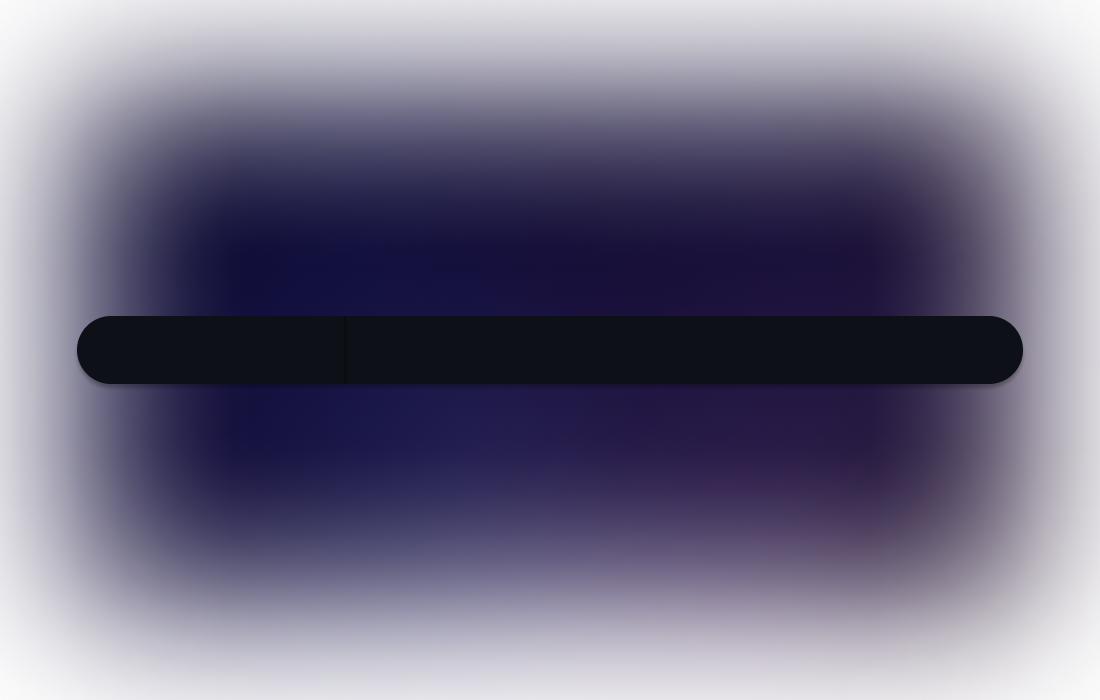
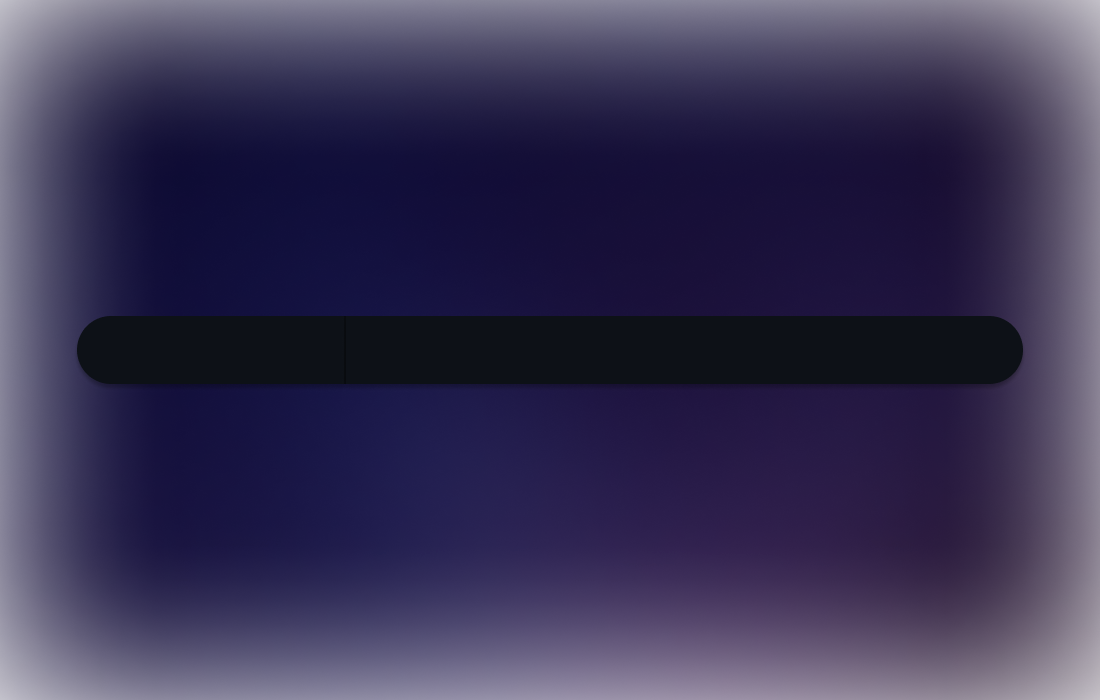
Feature complete Search ui

diff --git a/src/gui/main.py b/src/gui/main.py
@@ -4,6 +4,7 @@ from src.Logger import Logger
 from screeninfo import get_monitors
 from src.gui.lib.RelationalUI import RelationalNodeUI
 from src.Core import Core
+import time
 
 class GUI():
 	def __init__(self,DEBUG=False) -> None:
@@ -15,10 +16,9 @@ class GUI():
 		dpg.setup_dearpygui()
 		self.initStyles()
 		self.loadTextures()
-		self.mainWindow = dpg.add_window(label="Heimdall",on_close=self.closeGUI,horizontal_scrollbar=False,no_title_bar=True,no_scrollbar=True,no_collapse=True,no_close=False,no_resize=True,menubar=False,no_move=True,height=dpg.get_viewport_height(),width=dpg.get_viewport_width())
+		self.mainWindow = dpg.add_window(label="Heimdall",on_close=self.closeGUI,horizontal_scrollbar=False,no_title_bar=True,no_scrollbar=True,no_collapse=True,no_close=False,no_resize=True,menubar=False,no_move=True)
 		dpg.set_primary_window(self.mainWindow,True)
-		# dpg.set_frame_callback(1,callback=lambda: self.switchState("MAIN"))
-		dpg.set_frame_callback(1,callback=lambda: self.switchState("VIEW"))
+		dpg.set_frame_callback(1,callback=lambda: self.switchState("MAIN"))
 		self.centerViewport()
 		dpg.show_viewport()
 		dpg.start_dearpygui()
@@ -102,7 +102,7 @@ class GUI():
 				# Structure
 				dpg.add_image(texture_tag=self.textures["bar"],parent=self.mainWindow,pos=[0,0])
 				exit_button = dpg.add_image_button(label="button-exit",texture_tag=self.textures["button-exit"],parent=self.mainWindow,pos=[1060,5],callback=self.closeGUI)
-				dpg.add_image(texture_tag=self.textures["main-background"],parent=self.mainWindow,pos=[0,-100])
+				dpg.add_image(texture_tag=self.textures["main-background"],parent=self.mainWindow,pos=[0,0])
 				dpg.add_image(texture_tag=self.textures["title"],parent=self.mainWindow,pos=[251,198])
 				dpg.add_image_button(label="button-new",texture_tag=self.textures["button-new"],parent=self.mainWindow,pos=[255,342],callback=lambda: self.switchState("SEARCH"))
 				dpg.add_image_button(label="button-load",texture_tag=self.textures["button-load"],parent=self.mainWindow,pos=[510,342]) #,callback=lambda: self.switchState("LOAD")
@@ -120,6 +120,8 @@ class GUI():
 					value = dpg.get_value(search_input)
 					self.switchState("LOADING")
 					self.logger.debugMsg(f"Starting search with dp:{datapoint},value:{value}")
+					if self.DEBUG:
+						self.startedSerchTime = time.time()
 					if results := self.core.search(datapoint,value):
 						self.result = results
 						self.logger.debugMsg(f"Got search results: {self.result}")
@@ -146,18 +148,25 @@ class GUI():
 				# TODO | needs more work with an actual loader or whatever. maybe a debug console idfk
 				dpg.add_image(texture_tag=self.textures["main-background"],parent=self.mainWindow,pos=[0,-100])
 			case "VIEW":
+				def backToSearch():
+					self.RNUI.stopInteractionThreads()
+					self.switchState("SEARCH")
 				# Structure
 				dpg.add_image(texture_tag=self.textures["bar"],parent=self.mainWindow,pos=[0,0])
 				dpg.add_image(texture_tag=self.textures["small-title"],parent=self.mainWindow,pos=[468,4])
 				exit_button = dpg.add_image_button(label="button-exit",texture_tag=self.textures["button-exit"],parent=self.mainWindow,pos=[1060,5],callback=self.closeGUI)
-				dpg.add_image(texture_tag=self.textures["main-background"],parent=self.mainWindow,pos=[0,-100])
+				dpg.add_image(texture_tag=self.textures["main-background"],parent=self.mainWindow,pos=[0,0])
 				dpg.add_image(texture_tag=self.textures["view-background"],parent=self.mainWindow,pos=[79,111])
 				dpg.add_image(texture_tag=self.textures["view-filename-background"],parent=self.mainWindow,pos=[408,52])
 				file_name = dpg.add_input_text(parent=self.mainWindow,pos=[425,53],width=260,multiline=False,hint="Unsaved File",no_spaces=True) # ,callback=searchCallback,on_enter=True
 				self.RNUI = RelationalNodeUI(parent=self.mainWindow,width=942,height=512,x=111,y=79,DEBUG=self.DEBUG)
+				back_button = dpg.add_image_button(label="button-back",texture_tag=self.textures["button-back"],parent=self.mainWindow,pos=[489,635],callback=backToSearch)
 				# TODO | Uncomment this
-				# self.RNUI.visualize(self.result)
+				self.RNUI.visualize(self.result)
+				if self.DEBUG:
+					self.logger.debugMsg(f"Search took {round(time.time() - self.startedSerchTime,2)}s")
 				# Style
+				dpg.bind_item_theme(back_button,self.search_ui_theme)
 				dpg.bind_item_font(file_name,self.file_name_font)
 				dpg.bind_item_theme(file_name,self.view_ui_theme)
 			case "LOAD":

diff --git a/src/gui/lib/RelationalUI.py b/src/gui/lib/RelationalUI.py
@@ -32,21 +32,26 @@ class RelationalNodeUI:
 		self.pos = [y,x]
 		self.editorWindow = dpg.add_child_window(border=False,no_scrollbar=True,parent=parent,width=self.width,height=self.height,pos=self.pos)
 		self.editor = dpg.add_node_editor(parent=self.editorWindow,width=self.width,height=self.height)
-		# with dpg.theme() as self.node_editor_theme:
-		# 	with dpg.theme_component(dpg.mvWindowAppItem):
-		# 		dpg.add_theme_style(dpg.mvStyleVar_WindowPadding,0, category=dpg.mvThemeCat_Core)
-				# dpg.add_theme_style(dpg.mvNodeStyleVar_GridSpacing, 0, category=dpg.mvThemeCat_Core)
-		# 		dpg.add_theme_style(dpg.mvStyleVar_ChildBorderSize, 0, category=dpg.mvThemeCat_Core)
-		# 		dpg.add_theme_style(dpg.mvStyleVar_WindowPadding,0,0,category=dpg.mvThemeCat_Core)
-		# 		dpg.add_theme_color(dpg.mvNodeCol_GridBackground, (0,0,0,0), category=dpg.mvThemeCat_Core)
-		# 		dpg.add_theme_color(dpg.mvThemeCol_ChildBg, (0,0,0,0), category=dpg.mvThemeCat_Core)
-
+		with dpg.theme() as self.node_editor_window_theme:
+			with dpg.theme_component(dpg.mvAll):
+				dpg.add_theme_style(dpg.mvNodeStyleVar_GridSpacing, 0,category=dpg.mvThemeCat_Nodes)
+				dpg.add_theme_style(dpg.mvStyleVar_ChildBorderSize, 0, category=dpg.mvThemeCat_Core)
+				dpg.add_theme_style(dpg.mvStyleVar_WindowPadding,0,0,category=dpg.mvThemeCat_Core)
+				dpg.add_theme_style(dpg.mvStyleVar_ChildRounding,30,category=dpg.mvThemeCat_Core)
+				dpg.add_theme_style(dpg.mvNodeStyleVar_NodeCornerRounding,10,category=dpg.mvThemeCat_Nodes)
+				dpg.add_theme_style(dpg.mvNodeStyleVar_NodePadding,4,4,category=dpg.mvThemeCat_Nodes)
+				dpg.add_theme_style(dpg.mvStyleVar_ButtonTextAlign,0.5,category=dpg.mvThemeCat_Core)
+				dpg.add_theme_color(dpg.mvNodeCol_GridBackground, (0,0,0,0), category=dpg.mvThemeCat_Nodes)
+				dpg.add_theme_color(dpg.mvThemeCol_ChildBg, (0,0,0,0), category=dpg.mvThemeCat_Core)
+				dpg.add_theme_color(dpg.mvNodeCol_NodeBackground,(255,255,255,25),category=dpg.mvThemeCat_Nodes)
+				dpg.add_theme_color(dpg.mvNodeCol_NodeOutline,(255,255,255,0),category=dpg.mvThemeCat_Nodes)
+				dpg.add_theme_color(dpg.mvNodeCol_TitleBar,(80,0,255,100),category=dpg.mvThemeCat_Nodes)
 	def setup_draw_layer(self):
-		with dpg.window(no_background=True,pos=self.pos,width=self.width,height=self.height,no_move=True,no_title_bar=True,no_scrollbar=True,no_resize=True,max_size=(self.width,self.height),horizontal_scrollbar=False,min_size=(self.width,self.height),no_close=True,no_collapse=True) as drawWindow:
-			self.drawList = dpg.add_drawlist(parent=drawWindow,width=self.width,height=self.height,pos=self.pos)
-		# dpg.bind_item_theme(self.editorWindow,self.node_editor_theme)
-		# dpg.bind_item_theme(self.editor,self.node_editor_theme)
-		# dpg.bind_item_theme(drawWindow,self.node_editor_theme)
+		with dpg.window(no_background=True,pos=self.pos,width=self.width,height=self.height,no_move=True,no_title_bar=True,no_scrollbar=True,no_resize=True,max_size=(self.width,self.height),horizontal_scrollbar=False,min_size=(self.width,self.height),no_close=True,no_collapse=True) as self.drawWindow:
+			self.drawList = dpg.add_drawlist(parent=self.drawWindow,width=self.width,height=self.height,pos=self.pos)
+		dpg.bind_item_theme(self.editorWindow,self.node_editor_window_theme)
+		dpg.bind_item_theme(self.drawWindow,self.node_editor_window_theme)
+		dpg.bind_item_theme(self.editor,self.node_editor_window_theme)
 		self.logger.debugMsg("Added drawlist")
 
 	def startInteractionThreads(self):
@@ -58,6 +63,10 @@ class RelationalNodeUI:
 
 	def stopInteractionThreads(self):
 		self.Interaction = False
+		self.dragThread.join()
+		self.drawThread.join()
+		dpg.delete_item(self.drawList)
+		dpg.delete_item(self.drawWindow)
 
 	def visualize(self,root) -> None:
 		# Convert Tree data to relational data
@@ -68,7 +77,7 @@ class RelationalNodeUI:
 		# Center root node
 		self.logger.debugMsg("Visualizing [2/5] - Centering root node")
 		rootNode = self.get_editor_nodes()[0]
-		center = getItemMiddle(self.editor)
+		center = getItemMiddle(self.editorWindow)
 		dpg.set_item_pos(rootNode,[center[0] - dpg.get_item_width(rootNode),center[1] - dpg.get_item_height(rootNode)])
 		# Randomise position of nodes (except root node)
 		self.logger.debugMsg("Visualizing [3/5] - Randomising node positions")
